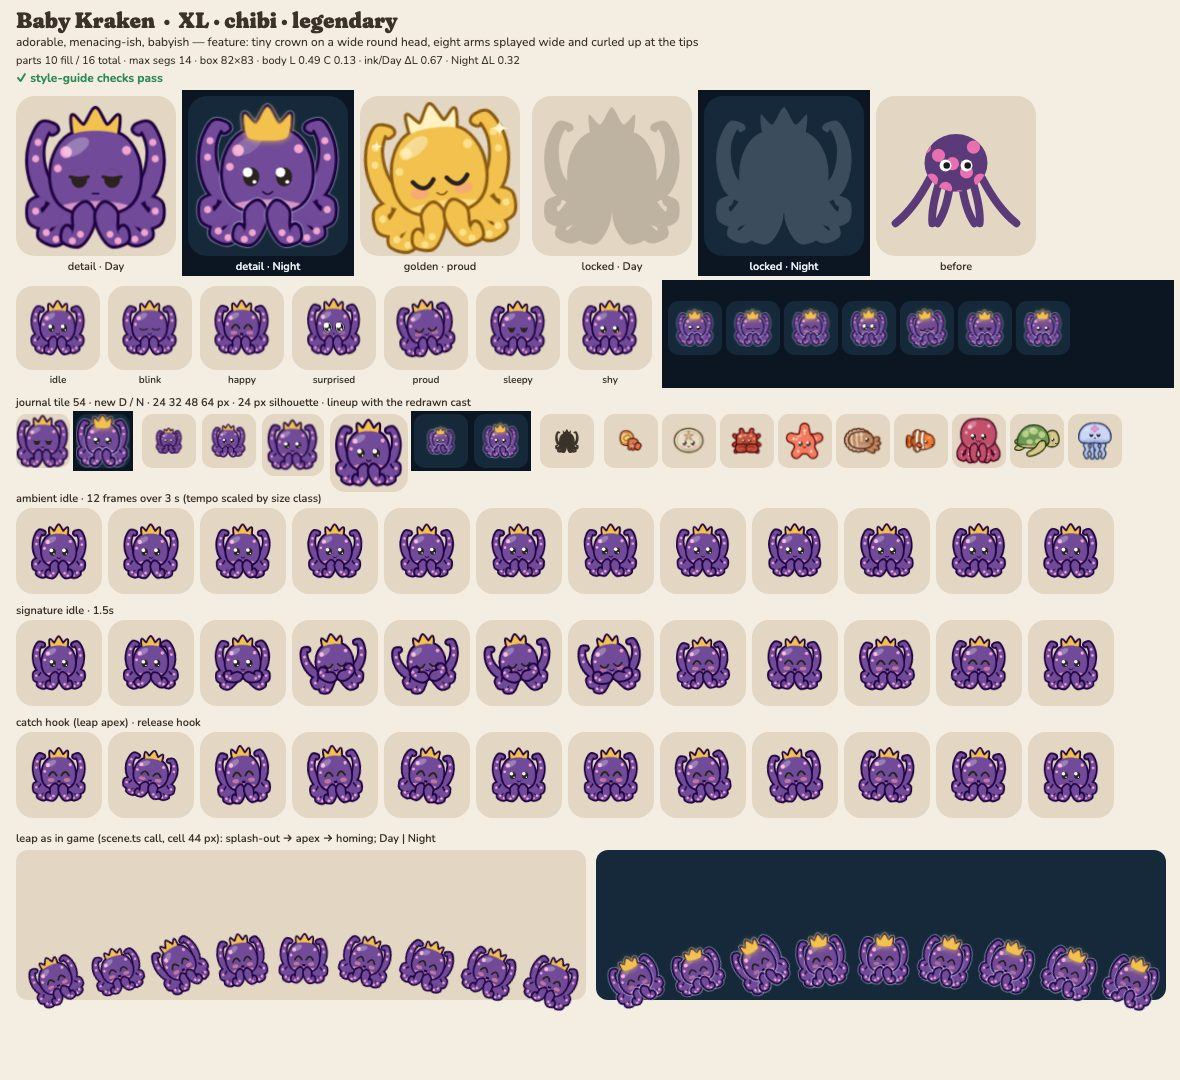
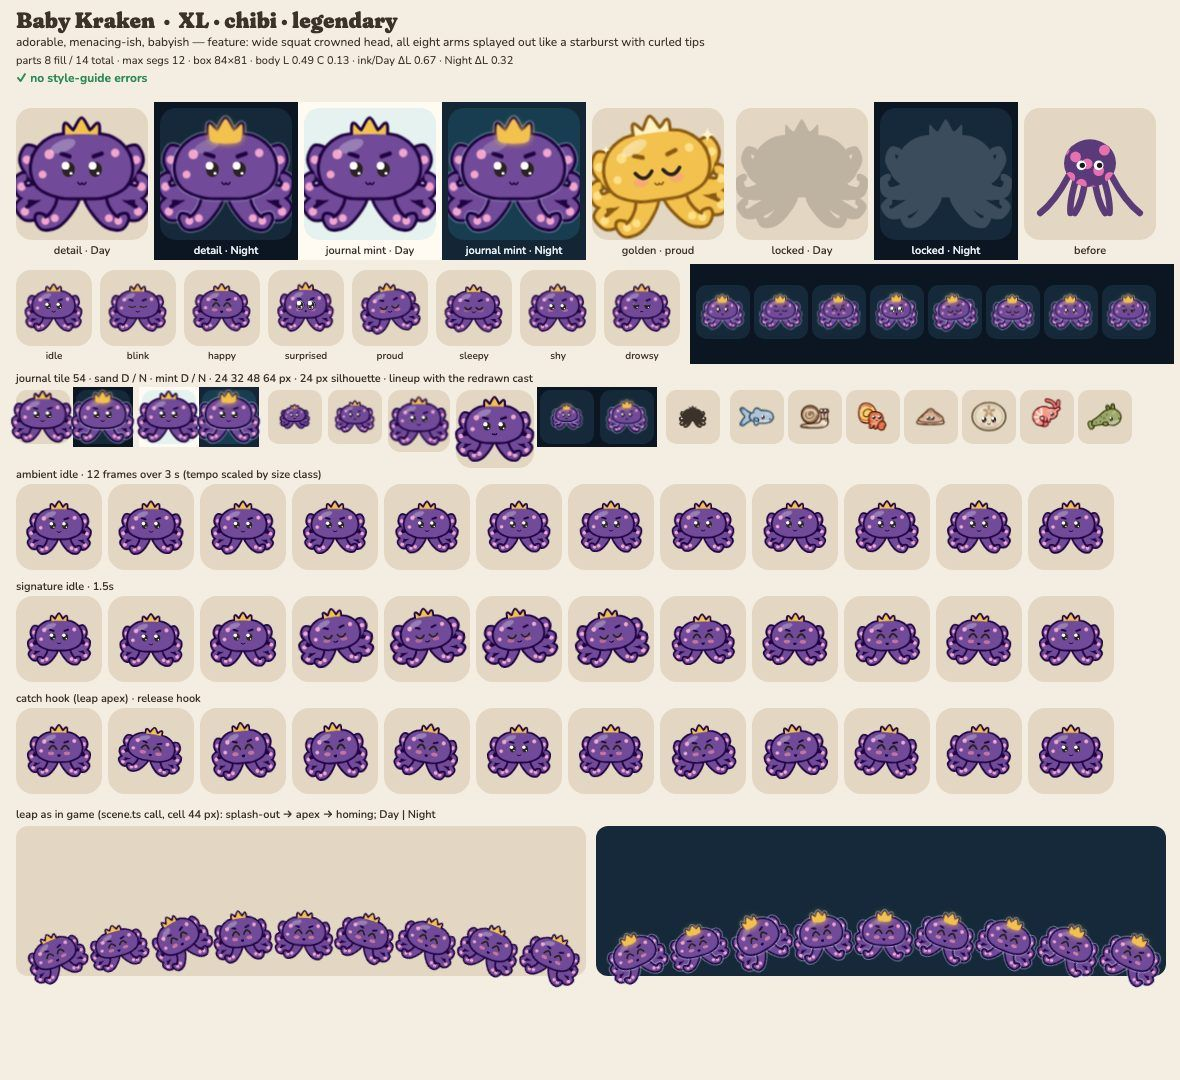
art: kraken redo — wide squat crowned sea monster, eight splayed arms (CRITIQUE-1)
render: kraken, round 2. No longer a recoloured octopus: the head is a wide squat oval (74 units,
1.3× the octopus head's share of its box), all eight arms splay out sideways like a starburst
skirt with curled `extra` tips that break the XL tile frame by 3.1 px (R28), a stubby angled brow
for "menacing-ish", `w` mouth, glowing gold crown. neverSleepy kept. Signature: puffs up and
spreads its arms wide with a smug face, can't hold it, giggles (wobble) and blushes.
Lint ✓. Closest IoU kraken/sanddollar 0.73, kraken/octopus 0.67, boxcrab/kraken 0.66.

diff --git a/src/render/art/species/kraken.ts b/src/render/art/species/kraken.ts
@@ -1,92 +1,110 @@
 /**
  * Baby Kraken — LEGENDARY, front-facing CHIBI, drawn XL (appendix ★ override).
- * Silhouette: a wide round head wearing a tiny three-point crown, eight arms that splay out
- * sideways and curl UP at the tips like a sea monster flexing (R10: the crown + the up-curled
- * arm fan; the octopus pilot's arms hang down and curl out, this one's spread and rise).
- * Deep purple, lifted to L 0.49 (R16 dark-identity rule) with a pink belly and pink suckers; the
+ * Silhouette: a WIDE squat head (≈ 1.3× the octopus pilot's head relative to its arms) wearing a
+ * tiny three-point crown, with all eight arms splayed out sideways like a starburst skirt, the tips
+ * curling up and breaking the tile frame (R10: the crown + the splayed arm fan + a stubby brow).
+ * The octopus pilot is a tall dome over hanging arms; this is a flat, wide little sea monster.
+ * Deep purple lifted to L 0.49 (R16 dark-identity rule) with a pink belly and pink suckers; the
  * crown is a light organ, so it glows gold on Night.
- * Personality: adorable, menacing-ish, babyish. Signature: tries a scary pose (arms up, puffed
- * up, smug), can't hold it, giggles and blushes.
+ * Personality: adorable, menacing-ish, babyish. Signature: tries a scary pose (arms up, puffed up,
+ * smug), can't hold it, giggles and blushes.
  */
 import { blob, circle, defineArt, ellipse, join, tube, xform } from '../kit.ts';
 
 const head = blob([
-  [0, -31],
-  [16, -28],
-  [25, -16],
-  [27, 0],
-  [22, 13],
-  [11, 19],
-  [0, 20],
-  [-11, 19],
-  [-22, 13],
-  [-27, 0],
-  [-25, -16],
-  [-16, -28],
+  [0, -29],
+  [20, -27],
+  [33, -17],
+  [37, -3],
+  [32, 10],
+  [17, 17],
+  [0, 18],
+  [-17, 17],
+  [-32, 10],
+  [-37, -3],
+  [-33, -17],
+  [-20, -27],
 ]);
 const crown = blob(
   [
-    [-12, -26],
-    [-14, -40],
-    [-7, -34],
-    [0, -44.5],
-    [7, -34],
-    [14, -40],
-    [12, -26],
-    [0, -24],
+    [-11, -24],
+    [-12, -36],
+    [-6, -31],
+    [0, -40],
+    [6, -31],
+    [12, -36],
+    [11, -24],
+    [0, -22],
   ],
   0.75,
 );
-// left arms (right ones mirror): two big outer arms that rise and curl up, a mid and a front arm
-const upL = tube([
-  [-21, 8, 6.6],
-  [-31, 4, 5.6],
-  [-36, -8, 4.8],
-  [-36, -22, 4],
-  [-31, -33, 3.4],
-  [-26, -32, 2.8],
-]);
-const lowL = tube([
-  [-19, 14, 6.6],
-  [-29, 23, 5.6],
-  [-36, 22, 4.6],
-  [-37, 15, 3.8],
-  [-33, 12, 3],
-]);
-const midL = tube([
-  [-12, 18, 6.4],
-  [-18, 28, 5.4],
-  [-25, 34, 4.4],
-  [-31, 32, 3.6],
-  [-30, 27, 3],
-]);
+// left arms (right ones mirror). Bases stay inside the body box; the curled tips are `extra` and
+// break the frame (R28). Four arms a side, fanned from horizontal-and-up to down-and-out.
+const armsBase = join(
+  tube([
+    [-28, 2, 7],
+    [-34, 0, 6],
+    [-37, -4, 5],
+  ]),
+  tube([
+    [-26, 10, 7],
+    [-32, 14, 6],
+    [-37, 15, 5],
+  ]),
+  tube([
+    [-19, 15, 6.8],
+    [-26, 24, 5.8],
+    [-33, 28, 4.8],
+  ]),
+);
+const armsTips = join(
+  tube([
+    [-37, -4, 5],
+    [-41, -11, 4],
+    [-39, -17, 3.2],
+    [-35, -16, 2.8],
+  ]),
+  tube([
+    [-37, 15, 5],
+    [-44, 13, 4],
+    [-46, 6, 3.2],
+    [-43, 3, 2.8],
+  ]),
+  tube([
+    [-33, 28, 4.8],
+    [-41, 30, 3.8],
+    [-45, 25, 3.2],
+    [-42, 21, 2.8],
+  ]),
+);
+// the front arm: down and out, tip curling outward (never toward the other one: not clasped hands)
 const frontL = tube([
-  [-6.5, 19, 6.2],
-  [-8, 29, 5.2],
-  [-12, 35, 4.2],
-  [-17, 34, 3.4],
-  [-17, 30, 2.8],
+  [-9, 16, 6.6],
+  [-14, 27, 5.6],
+  [-21, 35, 4.6],
+  [-28, 37, 3.6],
+  [-31, 33, 3],
 ]);
 const mirror = (d: string) => xform(d, { sx: -1 });
-const suckers = (pts: readonly (readonly [number, number])[]) => join(...pts.map(([x, y]) => circle(x, y, 2.2)));
+const dots = (pts: readonly (readonly [number, number])[], r = 3.2) => join(...pts.map(([x, y]) => circle(x, y, r)));
 const sL: [number, number][] = [
-  [-36.5, -14],
-  [-35, -24],
-  [-36.5, 18],
-  [-30, 31],
-  [-24, 35],
+  [-40.5, -10],
+  [-44.5, 10],
+  [-42, 28.5],
 ];
 const sF: [number, number][] = [
-  [-9, 32],
-  [-14, 36],
+  [-20, 33],
+  [-27, 35],
 ];
 const flip = (pts: [number, number][]) => pts.map(([x, y]) => [-x, y] as [number, number]);
+// the stubby "menacing" brow: two short thick ink dashes angled down toward the middle
+const brow = 'M-15 -14.5L-9 -12.5M15 -14.5L9 -12.5';
 
 export default defineArt({
   id: 'kraken',
   klass: 'chibi',
   size: 'XL',
-  feature: 'tiny crown on a wide round head, eight arms splayed wide and curled up at the tips',
+  feature: 'wide squat crowned head, all eight arms splayed out like a starburst with curled tips',
   personality: ['adorable', 'menacing-ish', 'babyish'],
   palette: { body: '#714B99', accent: '#F2C14E', belly: '#F2A5CF' },
   nocturnal: true,
@@ -94,22 +112,36 @@ export default defineArt({
   groups: [
     {
       id: 'armsL',
-      pivot: [-18, 8],
+      pivot: [-24, 8],
       parts: [
-        { d: upL, role: 'body' },
-        { d: lowL, role: 'body' },
-        { d: midL, role: 'body' },
-        { d: suckers(sL), role: 'belly', kind: 'pattern' },
+        { d: armsBase, role: 'body' },
+        { d: armsTips, role: 'body', extra: true },
+        { d: dots(sL), role: 'belly', kind: 'pattern' },
       ],
     },
     {
       id: 'armsR',
-      pivot: [18, 8],
+      pivot: [24, 8],
       parts: [
-        { d: mirror(upL), role: 'body' },
-        { d: mirror(lowL), role: 'body' },
-        { d: mirror(midL), role: 'body' },
-        { d: suckers(flip(sL)), role: 'belly', kind: 'pattern' },
+        { d: mirror(armsBase), role: 'body' },
+        { d: mirror(armsTips), role: 'body', extra: true },
+        { d: dots(flip(sL)), role: 'belly', kind: 'pattern' },
+      ],
+    },
+    {
+      id: 'armL',
+      pivot: [-9, 16],
+      parts: [
+        { d: frontL, role: 'body' },
+        { d: dots(sF, 3), role: 'belly', kind: 'pattern' },
+      ],
+    },
+    {
+      id: 'armR',
+      pivot: [9, 16],
+      parts: [
+        { d: mirror(frontL), role: 'body' },
+        { d: dots(flip(sF), 3), role: 'belly', kind: 'pattern' },
       ],
     },
     {
@@ -117,36 +149,20 @@ export default defineArt({
       parts: [
         { d: crown, role: 'light' },
         { d: head, role: 'body' },
-        { d: join(circle(-18, -18, 3.6), circle(-23, -8, 2.4), circle(19, -19, 2.8)), role: 'belly', kind: 'pattern' },
-        { d: ellipse(0, 18, 24, 6), role: 'belly', kind: 'pattern', alpha: 0.8 },
-      ],
-    },
-    {
-      id: 'armL',
-      pivot: [-6.5, 18],
-      parts: [
-        { d: frontL, role: 'body' },
-        { d: suckers(sF), role: 'belly', kind: 'pattern' },
-      ],
-    },
-    {
-      id: 'armR',
-      pivot: [6.5, 18],
-      parts: [
-        { d: mirror(frontL), role: 'body' },
-        { d: suckers(flip(sF)), role: 'belly', kind: 'pattern' },
+        { d: join(circle(-24, -14, 3.6), circle(25, -15, 3.2), circle(-29, 1, 3)), role: 'belly', kind: 'pattern' },
+        { d: brow, role: 'ink', kind: 'line', w: 3.2 },
       ],
     },
   ],
-  shine: ellipse(-12, -21, 9, 4.6, -30),
+  shine: ellipse(-14, -20, 10, 4.4, -22),
   face: {
     eyes: [
-      [-10, -2],
-      [10, -2],
+      [-10, -3],
+      [10, -3],
     ],
-    eye: 11.6,
-    zone: [-27, -31, 54, 51],
-    mouth: { at: [0, 7], w: 6, shape: 'smile' },
+    eye: 11.2,
+    zone: [-37, -29, 74, 47],
+    mouth: { at: [0, 7], w: 6, shape: 'w' },
     front: true,
   },
   idle: {
@@ -162,43 +178,33 @@ export default defineArt({
       tracks: [
         {
           g: 'armsL',
-          p: 'rot',
+          p: 'sx',
           k: [
-            [0, 0],
-            [0.12, 6],
-            [0.3, -18],
-            [0.5, -16],
-            [0.62, 0],
+            [0, 1],
+            [0.12, 0.94],
+            [0.3, 1.16],
+            [0.52, 1.14],
+            [0.64, 1],
           ],
         },
         {
           g: 'armsR',
-          p: 'rot',
+          p: 'sx',
           k: [
-            [0, 0],
-            [0.12, -6],
-            [0.3, 18],
-            [0.5, 16],
-            [0.62, 0],
+            [0, 1],
+            [0.12, 0.94],
+            [0.3, 1.16],
+            [0.52, 1.14],
+            [0.64, 1],
           ],
         },
         {
-          g: 'armL',
-          p: 'rot',
+          p: 'ty',
           k: [
             [0, 0],
-            [0.3, 100],
-            [0.5, 96],
-            [0.64, 0],
-          ],
-        },
-        {
-          g: 'armR',
-          p: 'rot',
-          k: [
-            [0, 0],
-            [0.3, -100],
-            [0.5, -96],
+            [0.12, 2],
+            [0.3, -4],
+            [0.52, -4],
             [0.64, 0],
           ],
         },
